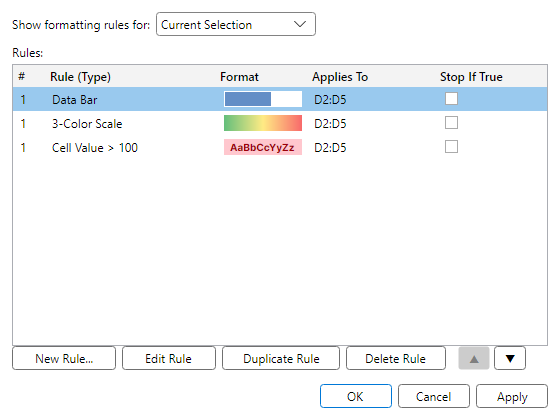
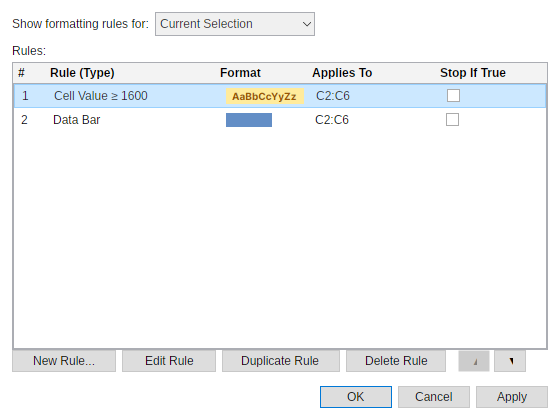
Align conditional format manager parity fixture

diff --git a/src/FreeX.App.Avalonia/MainWindow.ConditionalFormat.cs b/src/FreeX.App.Avalonia/MainWindow.ConditionalFormat.cs
@@ -950,10 +950,14 @@ public sealed partial class MainWindow
 
     // ── Chrome helpers ────────────────────────────────────────────────────────
 
-    private static void ApplyCfButtonChrome(Button button, double width, bool isDefault = false)
+    private static void ApplyCfButtonChrome(
+        Button button,
+        double width,
+        bool isDefault = false,
+        AvaloniaCompactDialogChromeStyle? style = null)
     {
         button.Width = width;
-        AvaloniaCompactDialogChrome.ApplyButton(button, ConditionalFormatDialogChromeStyle, width, isDefault);
+        AvaloniaCompactDialogChrome.ApplyButton(button, style ?? ConditionalFormatDialogChromeStyle, width, isDefault);
     }
 
     private static void ApplyCfTextBoxChrome(TextBox tb)
@@ -1027,7 +1031,7 @@ public sealed partial class MainWindow
     }
 
     private Task ShowManageConditionalFormatsDialogAsync() =>
-        ShowManageConditionalFormatsDialogAsync(launchSmokeProbe: null);
+        ShowManageConditionalFormatsDialogAsync(launchSmokeProbe: null, parityCapture: false);
 
     /// <summary>
     /// The Manage Rules dialog: lists the selection's overlapping rules (or every sheet rule when the
@@ -1040,7 +1044,8 @@ public sealed partial class MainWindow
     /// <c>ObservableCollection&lt;ConditionalFormat&gt;</c>).
     /// </summary>
     internal async Task ShowManageConditionalFormatsDialogAsync(
-        Action<ManageConditionalFormatsDialogSmokeProbe>? launchSmokeProbe)
+        Action<ManageConditionalFormatsDialogSmokeProbe>? launchSmokeProbe,
+        bool parityCapture = false)
     {
         if (!TryCommitPendingFormulaEdit())
             return;
@@ -1060,6 +1065,7 @@ public sealed partial class MainWindow
             ShowInTaskbar = false,
         };
         AutomationProperties.SetAutomationId(dialog, "ManageConditionalFormatsDialog");
+        var manageDialogChrome = ConditionalFormatDialogChromeStyle with { ButtonHeight = 22 };
 
         var listBox = new ListBox
         {
@@ -1069,7 +1075,7 @@ public sealed partial class MainWindow
         };
         AvaloniaCompactDialogChrome.ApplyListBox(
             listBox,
-            ConditionalFormatDialogChromeStyle with { ListBoxItemPadding = new Thickness(2, 0) });
+            manageDialogChrome with { ListBoxItemPadding = new Thickness(2, 0) });
         AutomationProperties.SetAutomationId(listBox, "ManageConditionalFormatsListBox");
         AutomationProperties.SetName(listBox, UiText.Get("ManageConditionalFormats_ConditionalFormattingRules"));
         // Render each rule as a #/Rule-type/Format-swatch/Applies-to/Stop-if row matching the header
@@ -1143,7 +1149,7 @@ public sealed partial class MainWindow
             SelectedIndex = Math.Max(0, Array.FindIndex(scopeItems, item => item.Scope == scopePlan.DefaultScope)),
             VerticalAlignment = global::Avalonia.Layout.VerticalAlignment.Center,
         };
-        ApplyCfComboBoxChrome(scopeBox);
+        AvaloniaCompactDialogChrome.ApplyComboBox(scopeBox, manageDialogChrome);
         AutomationProperties.SetAutomationId(scopeBox, "ManageConditionalFormatsScopeBox");
         AutomationProperties.SetName(scopeBox, UiText.Get("ManageConditionalFormats_ShowFormattingRulesFor").Replace("_", string.Empty, StringComparison.Ordinal));
 
@@ -1183,35 +1189,35 @@ public sealed partial class MainWindow
         }
 
         var newButton = new Button { Content = UiText.Get("ManageConditionalFormats_NewRule"), Width = 104, Margin = new Thickness(0, 0, 6, 0) };
-        ApplyCfButtonChrome(newButton, 104);
+        ApplyCfButtonChrome(newButton, 104, style: manageDialogChrome);
         AutomationProperties.SetAutomationId(newButton, "ManageConditionalFormatsNewButton");
         var editButton = new Button { Content = UiText.Get("ManageConditionalFormats_EditRule"), Width = 94, Margin = new Thickness(0, 0, 6, 0), IsEnabled = false };
-        ApplyCfButtonChrome(editButton, 94);
+        ApplyCfButtonChrome(editButton, 94, style: manageDialogChrome);
         AutomationProperties.SetAutomationId(editButton, "ManageConditionalFormatsEditButton");
         var duplicateButton = new Button { Content = UiText.Get("ManageConditionalFormats_DuplicateRule"), Width = 118, Margin = new Thickness(0, 0, 6, 0), IsEnabled = false };
-        ApplyCfButtonChrome(duplicateButton, 118);
+        ApplyCfButtonChrome(duplicateButton, 118, style: manageDialogChrome);
         AutomationProperties.SetAutomationId(duplicateButton, "ManageConditionalFormatsDuplicateButton");
         var deleteButton = new Button { Content = UiText.Get("ManageConditionalFormats_DeleteRule"), Width = 100, Margin = new Thickness(0, 0, 12, 0), IsEnabled = false };
-        ApplyCfButtonChrome(deleteButton, 100);
+        ApplyCfButtonChrome(deleteButton, 100, style: manageDialogChrome);
         AutomationProperties.SetAutomationId(deleteButton, "ManageConditionalFormatsDeleteButton");
         var moveUpButton = new Button { Content = "\u25B2", Width = 32, Margin = new Thickness(0, 0, 4, 0), IsEnabled = false };
-        ApplyCfButtonChrome(moveUpButton, 32);
+        ApplyCfButtonChrome(moveUpButton, 32, style: manageDialogChrome);
         AutomationProperties.SetAutomationId(moveUpButton, "ManageConditionalFormatsMoveUpButton");
         AutomationProperties.SetName(moveUpButton, UiText.Get("ManageConditionalFormats_MoveUp"));
         ToolTip.SetTip(moveUpButton, UiText.Get("ManageConditionalFormats_MoveSelectedRuleUp"));
         var moveDownButton = new Button { Content = "\u25BC", Width = 32, IsEnabled = false };
-        ApplyCfButtonChrome(moveDownButton, 32);
+        ApplyCfButtonChrome(moveDownButton, 32, style: manageDialogChrome);
         AutomationProperties.SetAutomationId(moveDownButton, "ManageConditionalFormatsMoveDownButton");
         AutomationProperties.SetName(moveDownButton, UiText.Get("ManageConditionalFormats_MoveDown"));
         ToolTip.SetTip(moveDownButton, UiText.Get("ManageConditionalFormats_MoveSelectedRuleDown"));
         var applyAppliesToButton = new Button { Content = UiText.Get("ManageConditionalFormats_Apply"), Width = 72 };
-        ApplyCfButtonChrome(applyAppliesToButton, 72);
+        ApplyCfButtonChrome(applyAppliesToButton, 72, style: manageDialogChrome);
         AutomationProperties.SetAutomationId(applyAppliesToButton, "ManageConditionalFormatsApplyAppliesToButton");
         var closeButton = new Button { Content = UiText.Get("Common_Ok"), IsDefault = true, Width = 72, Margin = new Thickness(0, 0, 6, 0) };
-        ApplyCfButtonChrome(closeButton, 72, isDefault: true);
+        ApplyCfButtonChrome(closeButton, 72, isDefault: true, style: manageDialogChrome);
         AutomationProperties.SetAutomationId(closeButton, "ManageConditionalFormatsCloseButton");
         var cancelButton = new Button { Content = UiText.Get("Common_Cancel"), IsCancel = true, Width = 72, Margin = new Thickness(0, 0, 6, 0) };
-        ApplyCfButtonChrome(cancelButton, 72);
+        ApplyCfButtonChrome(cancelButton, 72, style: manageDialogChrome);
         AutomationProperties.SetAutomationId(cancelButton, "ManageConditionalFormatsCancelButton");
 
         void SyncCommandState()
@@ -1223,7 +1229,7 @@ public sealed partial class MainWindow
             moveUpButton.IsEnabled = hasSelection && listBox.SelectedIndex > 0;
             moveDownButton.IsEnabled = hasSelection && listBox.SelectedIndex >= 0 && listBox.SelectedIndex < listBox.ItemCount - 1;
             applyAppliesToButton.IsEnabled = hasSelection;
-            appliesToRow.IsVisible = hasSelection;
+            appliesToRow.IsVisible = !parityCapture && hasSelection;
             appliesToPicker.IsEnabled = hasSelection;
         }
 

diff --git a/src/FreeX.App.Host/ParityCapture.cs b/src/FreeX.App.Host/ParityCapture.cs
@@ -12,6 +12,7 @@ using System.Windows.Media.Imaging;
 using FreeX.App.Presentation.Accessibility;
 using FreeX.App.Presentation.Backstage;
 using FreeX.App.Presentation.Consolidate;
+using FreeX.App.Presentation.ConditionalFormatting;
 using FreeX.App.Presentation.DrawingUI;
 using FreeX.App.Presentation.Filtering;
 using FreeX.App.Presentation.PageLayout;
@@ -857,12 +858,11 @@ internal static class ParityCapture
         CaptureDialog(results, "dialog.ConditionalFormatNewRule", outDir, () =>
             new NewConditionalFormatRuleDialog("Greater Than", range));
 
+        var conditionalFormatFixtureRange = ConditionalFormatManageParityFixture.CreateRange(sheet.Id);
         CaptureDialog(results, "dialog.ConditionalFormatManage", outDir, () =>
         {
-            // Seed a few example rules over the dialog's range so its rules list shows rows (mirrors the
-            // Avalonia parity wrapper, which seeds DataBar / ColorScale / Greater-Than rules).
-            SeedConditionalFormatRules(sheet, range);
-            return new ManageConditionalFormatsDialog(sheet, range);
+            SeedConditionalFormatRules(sheet);
+            return new ManageConditionalFormatsDialog(sheet, conditionalFormatFixtureRange);
         });
 
         // Page Setup: both shells have the same 4 tabs in the same order (Page/Margins/Header-Footer/Sheet).
@@ -1159,35 +1159,11 @@ internal static class ParityCapture
         return (pivot, cache, headers);
     }
 
-    /// <summary>
-    /// Seeds three example conditional-format rules (DataBar, three-color ColorScale, Greater-Than) over
-    /// <paramref name="range"/> so the Manage Conditional Formats dialog lists rows. Idempotent: clears any
-    /// existing rules first so a re-run keeps the same three.
-    /// </summary>
-    private static void SeedConditionalFormatRules(Sheet sheet, GridRange range)
+    private static void SeedConditionalFormatRules(Sheet sheet)
     {
         sheet.ConditionalFormats.Clear();
-        sheet.ConditionalFormats.Add(new ConditionalFormat
-        {
-            AppliesTo = range,
-            Priority = 1,
-            RuleType = CfRuleType.DataBar,
-        });
-        sheet.ConditionalFormats.Add(new ConditionalFormat
-        {
-            AppliesTo = range,
-            Priority = 2,
-            RuleType = CfRuleType.ColorScale,
-            UseThreeColorScale = true,
-        });
-        sheet.ConditionalFormats.Add(new ConditionalFormat
-        {
-            AppliesTo = range,
-            Priority = 3,
-            RuleType = CfRuleType.CellValue,
-            Operator = CfOperator.GreaterThan,
-            Value1 = "100",
-        });
+        foreach (var rule in ConditionalFormatManageParityFixture.CreateRules(sheet.Id))
+            sheet.ConditionalFormats.Add(rule);
     }
 
     private static void CaptureDialog(

diff --git a/src/FreeX.App.Avalonia/MainWindow.ParityCapture.cs b/src/FreeX.App.Avalonia/MainWindow.ParityCapture.cs
@@ -1870,22 +1870,10 @@ public sealed partial class MainWindow
     private async Task ShowManageConditionalFormatsParityDialogAsync()
     {
         var sheet = _session.Workbook.Sheets.Count > 0 ? _session.Workbook.Sheets[0] : _session.ActiveSheet;
-        var ruleRange = new GridRange(
-            new CellAddress(sheet.Id, 2, 4),
-            new CellAddress(sheet.Id, 5, 4));
-
-        // Apply 3 example rules so the manager has rows. Each commits through the same apply-command path the
-        // ribbon uses; the demo workbook starts with no rules, so this is idempotent enough for a single run.
-        foreach (var preset in new[]
-                 {
-                     ConditionalFormatPreset.DataBar,
-                     ConditionalFormatPreset.ColorScale,
-                     ConditionalFormatPreset.HighlightGreaterThan,
-                 })
-        {
-            _session.ExecuteReviewCommand(
-                ConditionalFormatPresetFactory.BuildApplyCommand(preset, sheet.Id, ruleRange, value: "100"));
-        }
+        var ruleRange = ConditionalFormatManageParityFixture.CreateRange(sheet.Id);
+        sheet.ConditionalFormats.Clear();
+        foreach (var rule in ConditionalFormatManageParityFixture.CreateRules(sheet.Id))
+            sheet.ConditionalFormats.Add(rule);
         RefreshShell(_statusText.Text ?? "Ready");
 
         var previousSheetId = _session.ActiveSheet.Id;
@@ -1897,7 +1885,7 @@ public sealed partial class MainWindow
 
         try
         {
-            await ShowManageConditionalFormatsDialogAsync();
+            await ShowManageConditionalFormatsDialogAsync(launchSmokeProbe: null, parityCapture: true);
         }
         finally
         {

diff --git a/src/FreeX.App.Presentation/ConditionalFormatting/ConditionalFormatManageParityFixture.cs b/src/FreeX.App.Presentation/ConditionalFormatting/ConditionalFormatManageParityFixture.cs
@@ -1,0 +1,42 @@
+using FreeX.Core.Model;
+
+namespace FreeX.App.Presentation.ConditionalFormatting;
+
+/// <summary>
+/// Deterministic state used by the cross-platform Manage Conditional Formatting visual-evidence
+/// capture. Production openers continue to use the user's current worksheet and selection.
+/// </summary>
+public static class ConditionalFormatManageParityFixture
+{
+    public const int DialogWidth = 560;
+    public const int DialogHeight = 420;
+
+    public static GridRange CreateRange(SheetId sheetId) =>
+        new(
+            new CellAddress(sheetId, 2, 3),
+            new CellAddress(sheetId, 6, 3));
+
+    public static IReadOnlyList<ConditionalFormat> CreateRules(SheetId sheetId)
+    {
+        var range = CreateRange(sheetId);
+        var greaterThanOrEqualRule = new ConditionalFormat
+        {
+            AppliesTo = range,
+            Priority = 1,
+            RuleType = CfRuleType.CellValue,
+            Operator = CfOperator.GreaterThanOrEqual,
+            Value1 = "1600",
+            FormatIfTrue = new CellStyle
+            {
+                Bold = true,
+                FontColor = new CellColor(156, 87, 0),
+                FillColor = new CellColor(255, 235, 156)
+            }
+        };
+        var dataBarRule = ConditionalFormatPresetGalleryPlanner.CreateDataBarRule("SolidBlue", range)
+            ?? throw new InvalidOperationException("The parity fixture requires the SolidBlue data-bar preset.");
+        dataBarRule.Priority = 2;
+
+        return [greaterThanOrEqualRule, dataBarRule];
+    }
+}

diff --git a/tests/FreeX.App.Presentation.Tests/ConditionalFormatting/ConditionalFormatManageParityFixtureTests.cs b/tests/FreeX.App.Presentation.Tests/ConditionalFormatting/ConditionalFormatManageParityFixtureTests.cs
@@ -1,0 +1,34 @@
+using FluentAssertions;
+using FreeX.App.Presentation.ConditionalFormatting;
+using FreeX.Core.Model;
+
+namespace FreeX.App.Presentation.Tests.ConditionalFormatting;
+
+public sealed class ConditionalFormatManageParityFixtureTests
+{
+    [Fact]
+    public void CreatesTheAuthorityStateAtTheExactDialogSelection()
+    {
+        var sheet = new Workbook("Book").AddSheet("Sheet1");
+
+        var range = ConditionalFormatManageParityFixture.CreateRange(sheet.Id);
+        var rules = ConditionalFormatManageParityFixture.CreateRules(sheet.Id);
+
+        range.Should().Be(new GridRange(
+            new CellAddress(sheet.Id, 2, 3),
+            new CellAddress(sheet.Id, 6, 3)));
+        rules.Should().HaveCount(2);
+        rules.Select(rule => rule.RuleType).Should().Equal(CfRuleType.CellValue, CfRuleType.DataBar);
+        rules[0].AppliesTo.Should().Be(range);
+        rules[0].Operator.Should().Be(CfOperator.GreaterThanOrEqual);
+        rules[0].Value1.Should().Be("1600");
+        rules[0].FormatIfTrue.Should().NotBeNull();
+        rules[0].FormatIfTrue!.Bold.Should().BeTrue();
+        rules[1].AppliesTo.Should().Be(range);
+        rules[1].DataBarColor.Should().Be(new RgbColor(99, 142, 198));
+        rules[1].DataBarGradient.Should().BeFalse();
+        rules[1].DataBarShowValue.Should().BeTrue();
+        ConditionalFormatManageParityFixture.DialogWidth.Should().Be(560);
+        ConditionalFormatManageParityFixture.DialogHeight.Should().Be(420);
+    }
+}

diff --git a/docs/parity/avalonia-parity-wave138-freex-residual-20260804.md b/docs/parity/avalonia-parity-wave138-freex-residual-20260804.md
@@ -1,0 +1,62 @@
+# Avalonia/WPF Parity Wave 138: FreeX Conditional Format Manager Fixture
+
+Date: 2026-08-04
+
+## Audit finding
+
+The existing canonical pair was semantically mismatched. The committed, nonblank WPF authority is
+`dialog.ConditionalFormatManage.png` at 840x630 pixels and approximately 144 DPI, or 560x420 logical
+pixels. It shows two rules over `$C$2:$C$6`: `Cell Value >= 1600` followed by `Data Bar`.
+
+The current WPF parity helper had drifted to a three-rule Data Bar / 3-Color Scale / Cell Value >100
+fixture, while the Avalonia helper independently applied those same three presets to `D2:D5`. This was
+stale fixture evidence, not a product behavior difference. The WPF authority was retained; no blank or
+new WPF frame was promoted.
+
+## Change
+
+- Added `ConditionalFormatManageParityFixture` in shared presentation code with the authority's exact
+  560x420 size, C2:C6 range, rule order, threshold, formatting, and solid-blue data-bar state.
+- Updated both WPF and Avalonia parity capture routes to consume that descriptor and removed the duplicated
+  three-rule/D2:D5 setup. Production dialog openers, functionality, keyboard/accessibility wiring, and
+  exact size remain unchanged.
+- Matched the WPF authority's inline Applies To presentation for the parity capture route by suppressing
+  Avalonia's separate editor row only for that capture opener; the normal production route retains the
+  existing editor, range picker, automation ids, and behavior.
+- Added a focused fixture behavior test.
+
+## Evidence and metrics
+
+The pre-change checked-in pair was not a valid semantic comparison. The source audit found:
+
+| Capture source | Rules | Applies-to | Size |
+| --- | ---: | --- | --- |
+| WPF authority PNG | 2 | `$C$2:$C$6` | 560x420 logical |
+| WPF current helper before Wave 138 | 3 | capture range (`A1:E5`) | 560x420 logical |
+| Avalonia current helper before Wave 138 | 3 | `D2:D5` | 560x420 logical |
+
+The fresh Linux Docker Avalonia capture passed `app_exit=0`, `capture_validated=true`, nonblank-content,
+and exact 560x420 gates. The focused pair comparison against the retained WPF authority measured:
+
+| Pair | Triage | Sample mean | Luma delta | Non-background delta |
+| --- | ---: | ---: | ---: | ---: |
+| Existing canonical pair before Wave 138 | 0.073983 | 0.045 | 0.000 | 0.028 |
+| Wave 138 fresh Avalonia, shared fixture and chrome correction | **0.065497** | **0.035432** | 0.002 | **0.028488** |
+
+The triage score fell 11.5%. The old score is retained for historical comparison only: its frames were
+semantically mismatched, so the content correction is the primary result and the numeric delta is
+directional rather than a pure chrome-only measurement. The canonical Avalonia PNG/manifest row were
+promoted under `docs/parity/dialog-visual-assets/`. Global dialog summary/dashboard regeneration remains
+with integration.
+
+## Verification
+
+- `dotnet test tests/FreeX.App.Presentation.Tests/FreeX.App.Presentation.Tests.csproj --configuration Release --no-restore --filter "FullyQualifiedName~ConditionalFormatManageParityFixtureTests"` - 1 passed.
+- `tools/Run-LinuxParityCapture.ps1` - app exit 0, `capture_validated=true`, nonblank, exact 560x420.
+- `tools/Generate-DialogVisualEvidenceSummary.ps1` - focused pair: 0 logical-size mismatches, 0 nonblank failures, triage 0.065497.
+
+## Residual limitations
+
+The retained WPF authority predates this source correction but is nonblank and semantically explicit. A
+fresh WPF authority recapture was intentionally not attempted in this Linux-focused slice, so the final
+metric remains conditional on the retained authority plus the fresh Avalonia frame.
